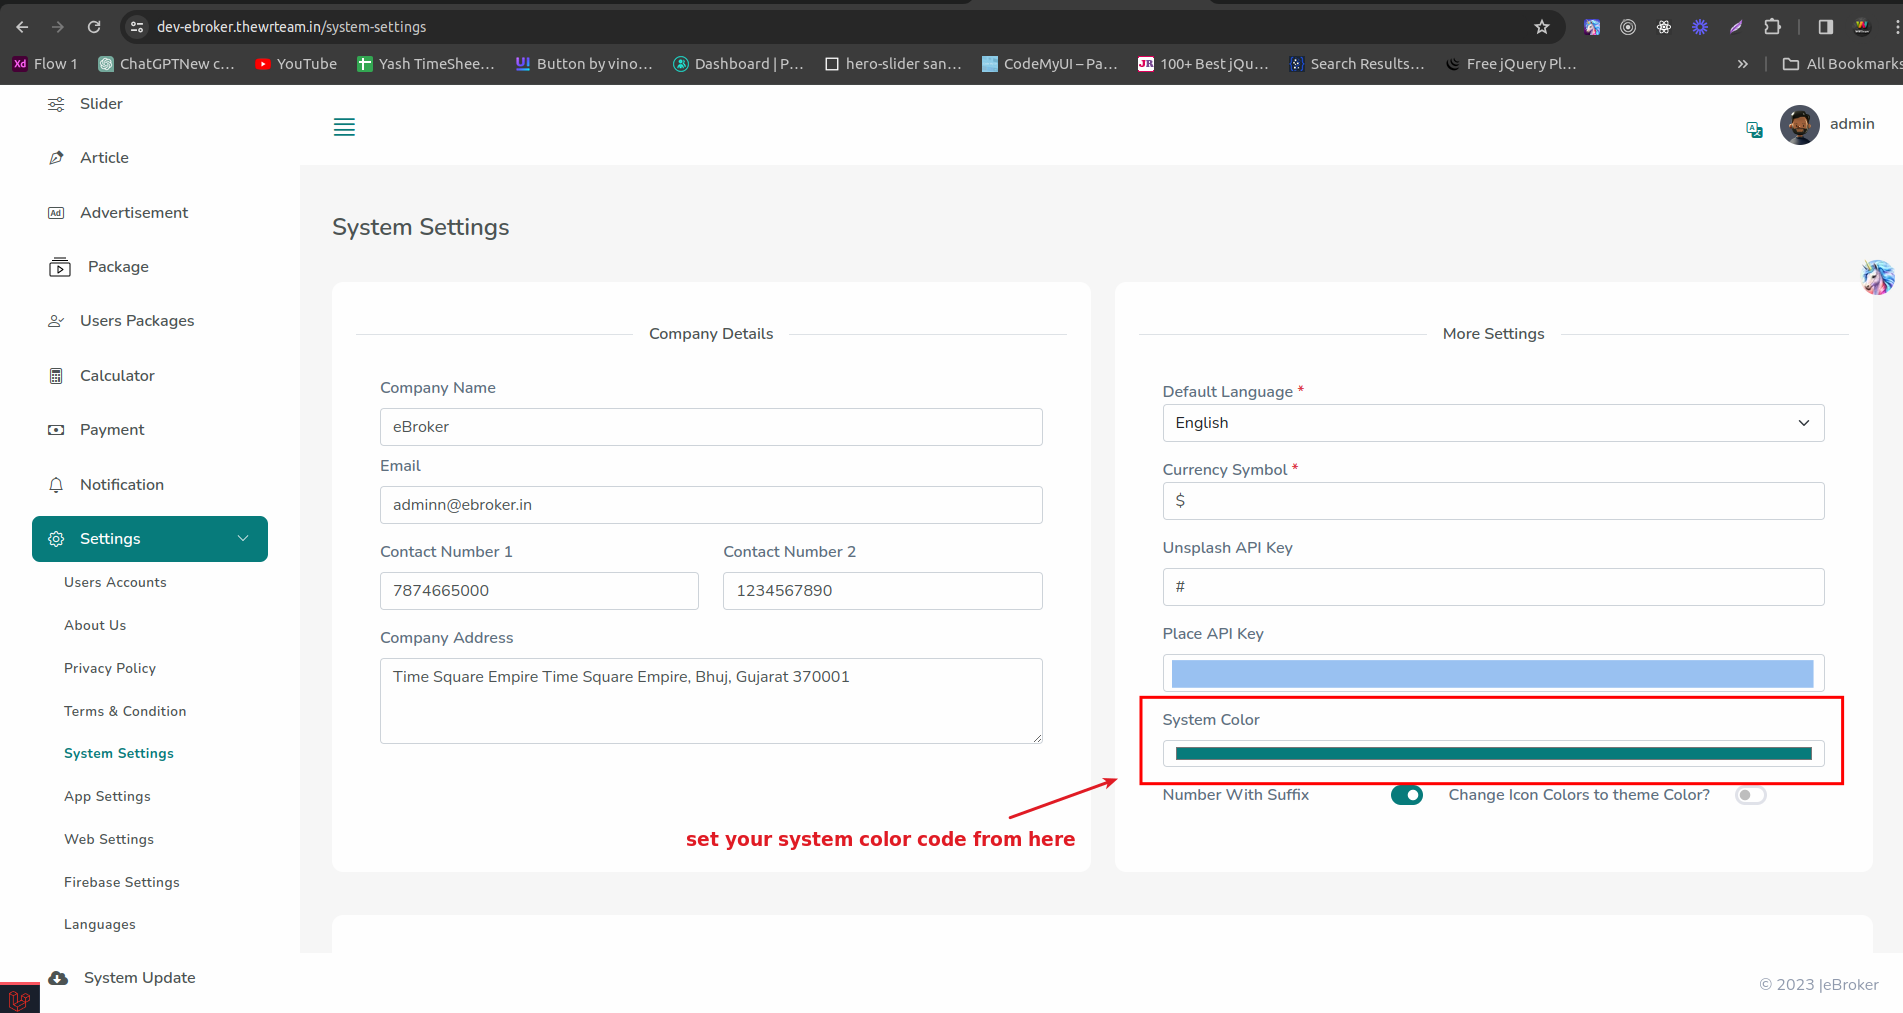
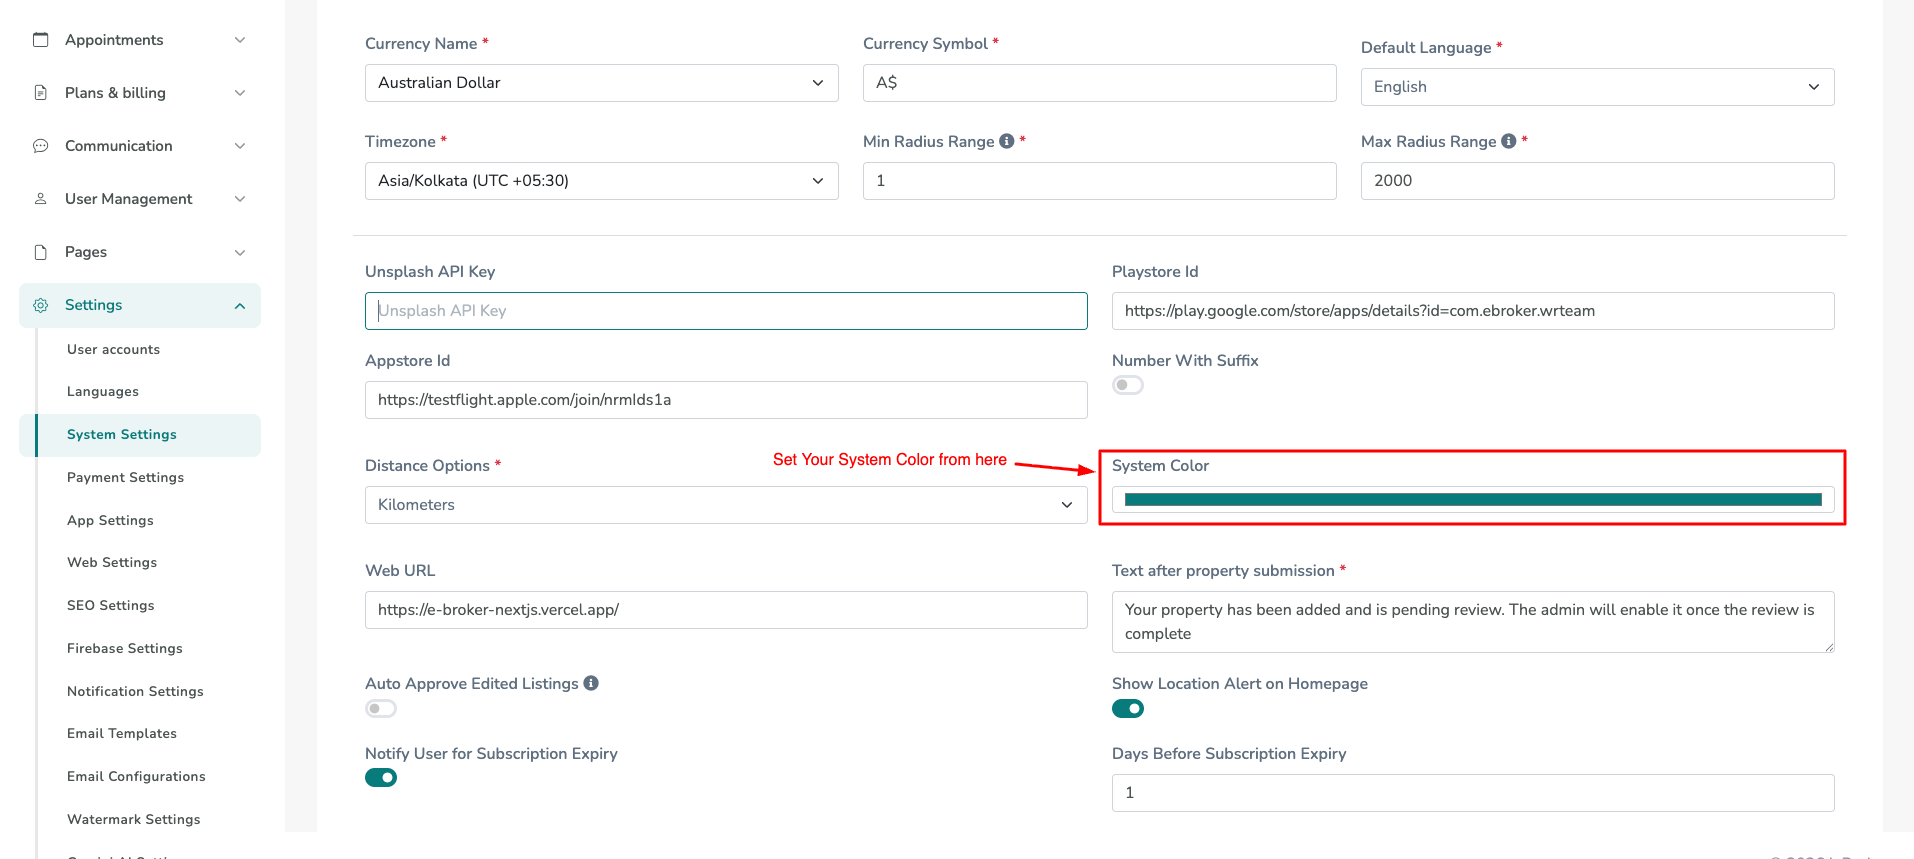
updated admin panel ss used in web docs and font loading using next font in website

diff --git a/docs/web/font-customization.md b/docs/web/font-customization.md
@@ -4,32 +4,63 @@ sidebar_position: 13
 
 # Font Customization
 
-Customizing your eBroker web application's typography reinforces your brand identity and enhances readability across the platform.
+## Step 1: Choose your font
 
-## Customizing Website Font
+1. Go to [Google Fonts](https://fonts.google.com/) and pick a font
+2. Note the exact font name (e.g., "Inter", "Roboto", "Poppins")
 
-1. Go to [Google Fonts](https://fonts.google.com/) and search for your desired font family.
+   :::caution IMPORTANT
+   The font name must match Google Fonts exactly (case-sensitive)
+   :::
 
-![Font Change S1](/images/web/font-change-s1.png)
+## Step 2: Update the import
 
-2. Click on searched font, then click on "Get font" > "Get embed Code"
+In `pages/_app.js`, change line 16:
 
-![Font Change S2](/images/web/font-change-s2.png)
+Replace `Manrope` with your font name
 
-![Font Change S3](/images/web/font-change-s3.png)
-
-3. Copy the highlighted `<link href="https://fonts.googleapis.com/css2?family=Roboto:wght@100..900&display=swap" rel="stylesheet" />` tag, navigate to `_document.js` file of `pages/` folder in the website code and paste it there.
-
-![Font Change S4](/images/web/font-change-s4.png)
-
-![Font Change S5](/images/web/font-change-s5.png)
-
-4. Now navigate to `globals.css` file in `src/styles/` folder in website code and change the `--font-family:` css variable to include font style according to the font link tag you've attached.It will look like
-
-```css
-:root {
-  --font-family: "Roboto", sans-serif;
-}
+```javascript
+import { Inter } from "next/font/google";
 ```
 
-![Font Change S6](/images/web/font-change-s6.png)
+## Step 3: Update the font variable name
+
+On line 18, change `const manrope` to match your font:
+
+```javascript
+const inter = Inter({
+```
+
+Use the same name as the import.
+
+## Step 4: Configure font weights
+
+On line 8, update the weight array with the weights you need:
+
+```javascript
+weight: ["300", "400", "500", "600", "700"],
+```
+
+Common options: `["200", "300", "400", "500", "600", "700", "800"]`
+
+:::tip TIP
+Only include weights you'll use. Fewer weights = smaller bundle size.
+:::
+
+## Step 5: Update the className
+
+On line 66, change `manrope.className` to your new variable:
+
+```sh
+inter.className
+```
+
+## Step 6: Test your changes
+
+1. Save the file
+2. Restart your dev server: `npm run dev`
+3. Check your app to see the new font
+
+:::info NOTE
+Keep `subsets: ["latin"]` and `display: "swap"` as shown in the original configuration.
+:::

diff --git a/docs/web/social-media.md b/docs/web/social-media.md
@@ -19,12 +19,14 @@ Connecting your social media accounts to your eBroker web application helps impr
 
 You can also add links to your mobile app on the App Store and Play Store:
 
-1. In your admin panel, go to **Settings > Web Settings > More Settings**
-2. Find the sections for Play Store and App Store links
+1. In your admin panel, go to **Settings > System Settings > More Settings**
+2. Find the sections for Play Store and App Store Id
 3. Enter the URLs for your mobile app listings
 4. Save your changes
 
 These links will typically appear in the footer of your website and help promote your mobile application.
+
+![Social Media Links 2](/images/web/app_link_settings.png)
 
 ## Best Practices
 

diff --git a/docs/web/htaccess-config.md b/docs/web/htaccess-config.md
@@ -68,7 +68,7 @@ This guide explains how to configure your Apache web server for both static and 
     RewriteRule ^_next/(.*) /.next/$1 [L]
 
     # Only serve static files directly if they ACTUALLY exist on disk
-    RewriteCond %{REQUEST_URI} \.(js|css|svg|jpg|jpeg|png|gif|ico|webp)$
+    RewriteCond %{REQUEST_URI} \.(js|css|svg|jpg|jpeg|png|gif|ico|webp|woff2)$
     RewriteCond %{REQUEST_FILENAME} -f
     RewriteRule ^ - [L]
 
